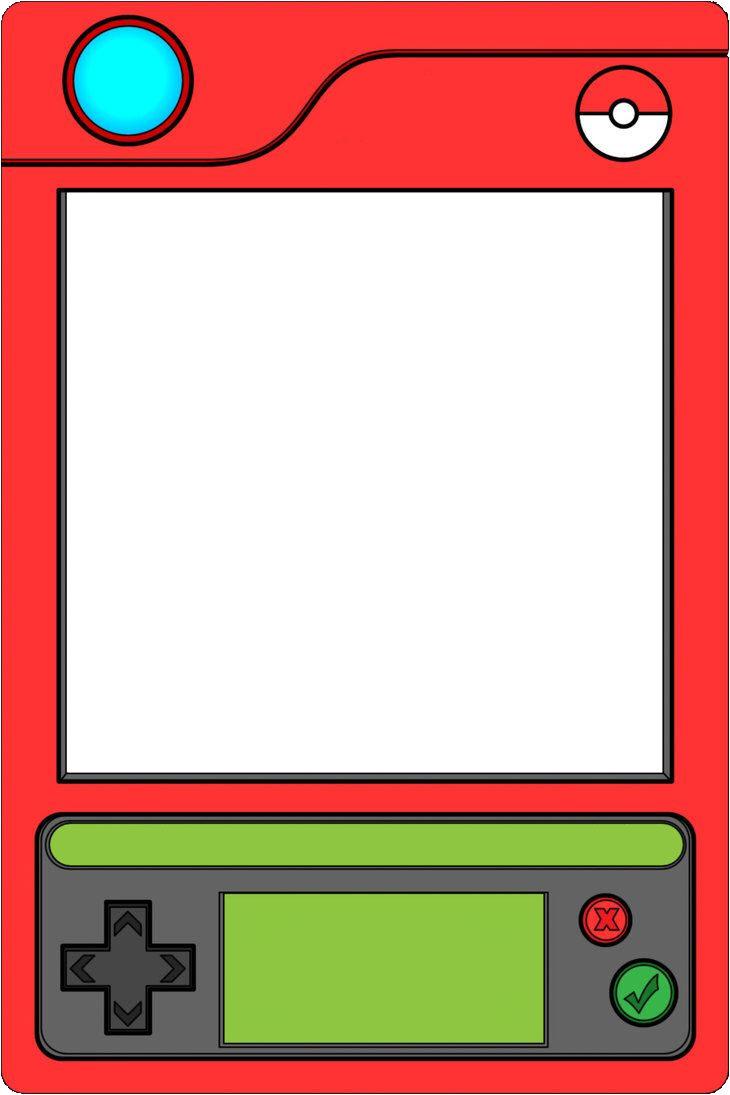
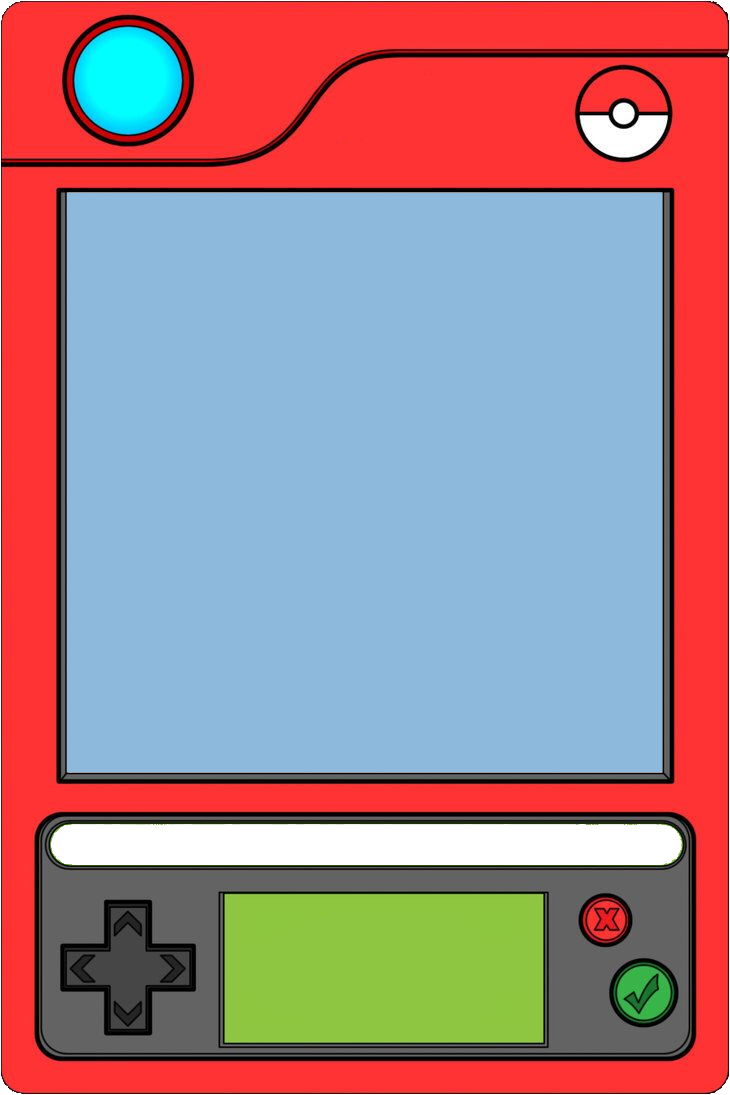
Aplico interfaz pokedex firstMobile

diff --git a/css/style.css b/css/style.css
@@ -70,6 +70,17 @@ section#seccionInput > button#btnBuscar {
     cursor: pointer;
 }
 
+section#seccionInput > ul#sugerenciasPokemon {
+    position: absolute;
+    top: 72.2%;
+    left: 32.3%;
+    max-height: 9.5%;
+    width: 40%;
+    overflow-y: auto;
+    padding: 3%;
+    list-style-type: none;
+}
+
 section#contenidoPokemon {
     grid-area: contenidoPokemon;
     width: 100%;
@@ -82,6 +93,101 @@ section#contenidoPokemon {
 section#contenidoPokemon > img {
     width: 90%;
     height: 95%;
+    max-width: 400px;
+}
+
+section#contenidoPokemon > section#contenido {
+    position: absolute;
+    top: 26.9%;
+    left: 14%;
+    height: 37%;
+    width: 72%;
+    max-width: 400px;
+    text-align: center;
+    display: grid;
+    grid-template-areas:
+        "nombre nombre"
+        "frontal trasera"
+        "altura altura"
+        "peso peso"
+        "vida vida"
+        "ataque ataque"
+        "defensa defensa"
+        "velocidad velocidad"
+        "tipo tipo";
+    grid-template-rows: 1fr 50% 1fr 1fr 1fr 1fr 1fr 1fr 1fr;
+}
+
+section#contenidoPokemon > section#contenido > h2 {
+    grid-area: nombre;
+    color: black;
+    width: 100%;
+    height: 100%;
+}
+
+section#contenidoPokemon > section#contenido > img#frontal {
+    grid-area: frontal;
+    width: 17vh;
+    height: 17vh;
+    z-index: 1;
+}
+
+section#contenidoPokemon > section#contenido > img#sueloFrontal {
+    position: absolute;
+    width: 15vh;
+    height: 4.5vh;
+    top: 42%;
+    left: 1vh;
+}
+
+section#contenidoPokemon > section#contenido > img#trasera {
+    grid-area: trasera;
+    width: 14vh;
+    height: 14vh;
+    z-index: 1;
+}
+
+section#contenidoPokemon > section#contenido > img#sueloTrasera {
+    position: absolute;
+    width: 10vh;
+    height: 2.5vh;
+    top: 38.5%;
+    left: 21vh;
+}
+
+section#contenidoPokemon > section#contenido > p {
+    color: black;
+    width: 100%;
+    height: 100%;
+    font-size: 1.5vh;
+}
+
+section#contenidoPokemon > section#contenido > p#altura {
+    grid-area: altura;
+}
+
+section#contenidoPokemon > section#contenido > p#peso {
+    grid-area: peso;
+}
+
+section#contenidoPokemon > section#contenido > p#vida {
+    grid-area: vida;
+}
+
+section#contenidoPokemon > section#contenido > p#ataque {
+    grid-area: ataque;
+}
+
+section#contenidoPokemon > section#contenido > p#defensa {
+    grid-area: defensa;
+}
+
+section#contenidoPokemon > section#contenido > p#velocidad {
+    grid-area: velocidad;
+}
+
+section#contenidoPokemon > section#contenido > p#tipo {
+    grid-area: tipo;
 }
 
 footer {
@@ -120,159 +226,3 @@ footer > section#nombres {
     justify-content: center;
     align-items: center;
 }
-
-/* 
-header img {
-    display: block;
-    margin: auto;
-}
-
-.text-search {
-    text-align: center;
-    margin-top: 20px;
-}
-
-.grupoInput {
-    position: relative;
-    display: inline-block;
-    width: 300px;
-}
-
-#pokemon-input {
-    width: 100%;
-    padding: 10px;
-    box-sizing: border-box;
-    border: 1px solid #ccc;
-    border-radius: 4px;
-}
-
-#suggestions-list {
-    list-style-type: none;
-    padding: 0;
-    margin: 0;
-    border: 1px solid #ccc;
-    border-top: none;
-    position: absolute;
-    width: 100%;
-    max-height: 150px;
-    overflow-y: auto;
-    background-color: #fff;
-    z-index: 1000;
-    box-sizing: border-box;
-    color: #4caf50;
-}
-
-#suggestions-list li {
-    padding: 10px;
-    cursor: pointer;
-}
-
-#suggestions-list li:hover {
-    background-color: #e0e0e0;
-}
-
-.btnEnviar {
-    margin-top: 10px;
-    padding: 10px 20px;
-    font-size: 16px;
-    background-color: #4caf50;
-    color: white;
-    border: none;
-    cursor: pointer;
-    border-radius: 4px;
-}
-
-.btnEnviar i {
-    margin-right: 5px;
-}
-
-.contenidoPokemon {
-    background-color: white;
-    padding: 20px;
-    border-radius: 8px;
-    text-align: center;
-    max-width: 90%;
-    margin: auto;
-    display: none;
-    flex-direction: column;
-    justify-content: center;
-}
-
-.contenidoPokemon.show {
-    display: block;  Mostrar el contenedor cuando tenga la clase 'show' 
-}
-
-.pokemon-info {
-    display: none;
-}
-
-.pokemon-info.show {
-    display: block;
-}
-
-header {
-    color: black;
-}
-
-form {
-    display: flex;
-    flex-direction: column;
-    position: relative;
-    padding: 13px;
-    width: 100%;
-}
-
-label {
-    color: black;
-    font-size: 30px;
-    text-transform: uppercase;
-    margin-bottom: 5px;
-}
-
-input {
-    display: block;
-    border: solid gray 2px;
-    width: calc(100% - 80px);
-    height: 40px;
-}
-
-.btnEnviar {
-    border-radius: 10vmax;
-    background-color: #ee6b2f;
-    text-align: center;
-    color: #fff;
-    display: flex;
-    align-items: center;
-    justify-content: center;
-    padding: 0 10px;
-    height: 40px;
-    width: 80px;
-    cursor: pointer;
-}
-
-#subtitulo {
-    color: #ffffff;
-    font-family: "Press Start 2P", sans-serif;
-    font-size: 12px;
-    background-color: #4caf50;
-    padding: 10px;
-    border-radius: 5px;
-    width: fit-content;
-    max-width: 100%;
-    box-sizing: border-box;
-    margin: 10px;
-}
-
-body {
-    background-image: url("./img/fondo.png");
-    background-size: cover;
-    background-repeat: no-repeat;
-    background-attachment: fixed;
-    background-position: center;
-    color: white;
-}
-
-#pokemon-info {
-    color: black;
-}
-*/

diff --git a/js/script.js b/js/script.js
@@ -3,6 +3,7 @@
 document.addEventListener("DOMContentLoaded", () => {
     const inputPokemon = document.getElementById("inputPokemon");
     const listaDeSugerencias = document.getElementById("sugerenciasPokemon");
+    const btnBuscar = document.getElementById("btnBuscar");
 
     // Evento input para actualizar las sugerencias según lo que el usuario escribe
     inputPokemon.addEventListener("input", () => {
@@ -12,6 +13,16 @@ document.addEventListener("DOMContentLoaded", () => {
             mostrarSugerenciasPokemon(terminoDeBusqueda);
         } else {
             limpiarSugerencias();
+        }
+    });
+
+    // Evento click del botón de búsqueda
+    btnBuscar.addEventListener("click", () => {
+        const nombrePokemon = inputPokemon.value.trim().toLowerCase();
+        if (nombrePokemon) {
+            buscarPokemon(nombrePokemon);
+        } else {
+            alert("Por favor, introduce el nombre o número de un Pokémon.");
         }
     });
 
@@ -60,20 +71,6 @@ document.addEventListener("DOMContentLoaded", () => {
         listaDeSugerencias.innerHTML = "";
     }
 
-    // Evento submit del formulario
-    document
-        .querySelector(".text-search")
-        .addEventListener("submit", (event) => {
-            event.preventDefault(); // Evitar el envío tradicional del formulario
-
-            const nombrePokemon = inputPokemon.value.trim().toLowerCase();
-            if (nombrePokemon) {
-                buscarPokemon(nombrePokemon);
-            } else {
-                alert("Por favor, introduce el nombre o número de un Pokémon.");
-            }
-        });
-
     // Función para buscar y mostrar la información del Pokémon seleccionado
     function buscarPokemon(nombrePokemon) {
         fetch(`https://pokeapi.co/api/v2/pokemon/${nombrePokemon}`)
@@ -89,15 +86,21 @@ document.addEventListener("DOMContentLoaded", () => {
                 const imagenDeDetras = data.sprites.back_default;
                 pokemonInfo.innerHTML = `
                     <h2>${primeraLetraMayuscula(data.name)}</h2>
-                    <img src="${imagenDeFrente}" alt="${data.name} front">
-                    <img src="${imagenDeDetras}" alt="${data.name} back">
-                    <p>Altura: ${data.height / 10} m</p>
-                    <p>Peso: ${data.weight / 10} kg</p>
-                    <p>Puntos de vida: ${data.stats[0].base_stat}</p>
-                    <p>Ataque: ${data.stats[1].base_stat}</p>
-                    <p>Defensa: ${data.stats[2].base_stat}</p>
-                    <p>Velocidad: ${data.stats[5].base_stat}</p>
-                    <p>Tipos: ${data.types
+                    <img id="frontal" src="${imagenDeFrente}" alt="${
+                    data.name
+                }front">
+                    <img id="sueloFrontal" src="./css/img/sueloPokemon.png" alt="suelo de cesped para el pokemon">
+                    <img id="trasera" src="${imagenDeDetras}" alt="${
+                    data.name
+                } back">
+                    <img id="sueloTrasera" src="./css/img/sueloPokemon.png" alt="suelo de cesped para el pokemon">
+                    <p id="altura">Altura: ${data.height / 10} m</p>
+                    <p id="peso">Peso: ${data.weight / 10} kg</p>
+                    <p id="vida">Puntos de vida: ${data.stats[0].base_stat}</p>
+                    <p id="ataque">Ataque: ${data.stats[1].base_stat}</p>
+                    <p id="defensa">Defensa: ${data.stats[2].base_stat}</p>
+                    <p id="velocidad">Velocidad: ${data.stats[5].base_stat}</p>
+                    <p id="tipo">Tipos: ${data.types
                         .map((typeInfo) =>
                             primeraLetraMayuscula(typeInfo.type.name)
                         )

diff --git a/index.html b/index.html
@@ -26,6 +26,10 @@
                 />
                 <ul id="sugerenciasPokemon"></ul>
                 <button id="btnBuscar" type="submit"></button>
+                <button id="btnDerecha" type="button"></button>
+                <button id="btnIzquierda" type="button"></button>
+                <button id="btnArriba" type="button"></button>
+                <button id="btnAbajo" type="button"></button>
             </section>
 
             <section id="contenidoPokemon">
